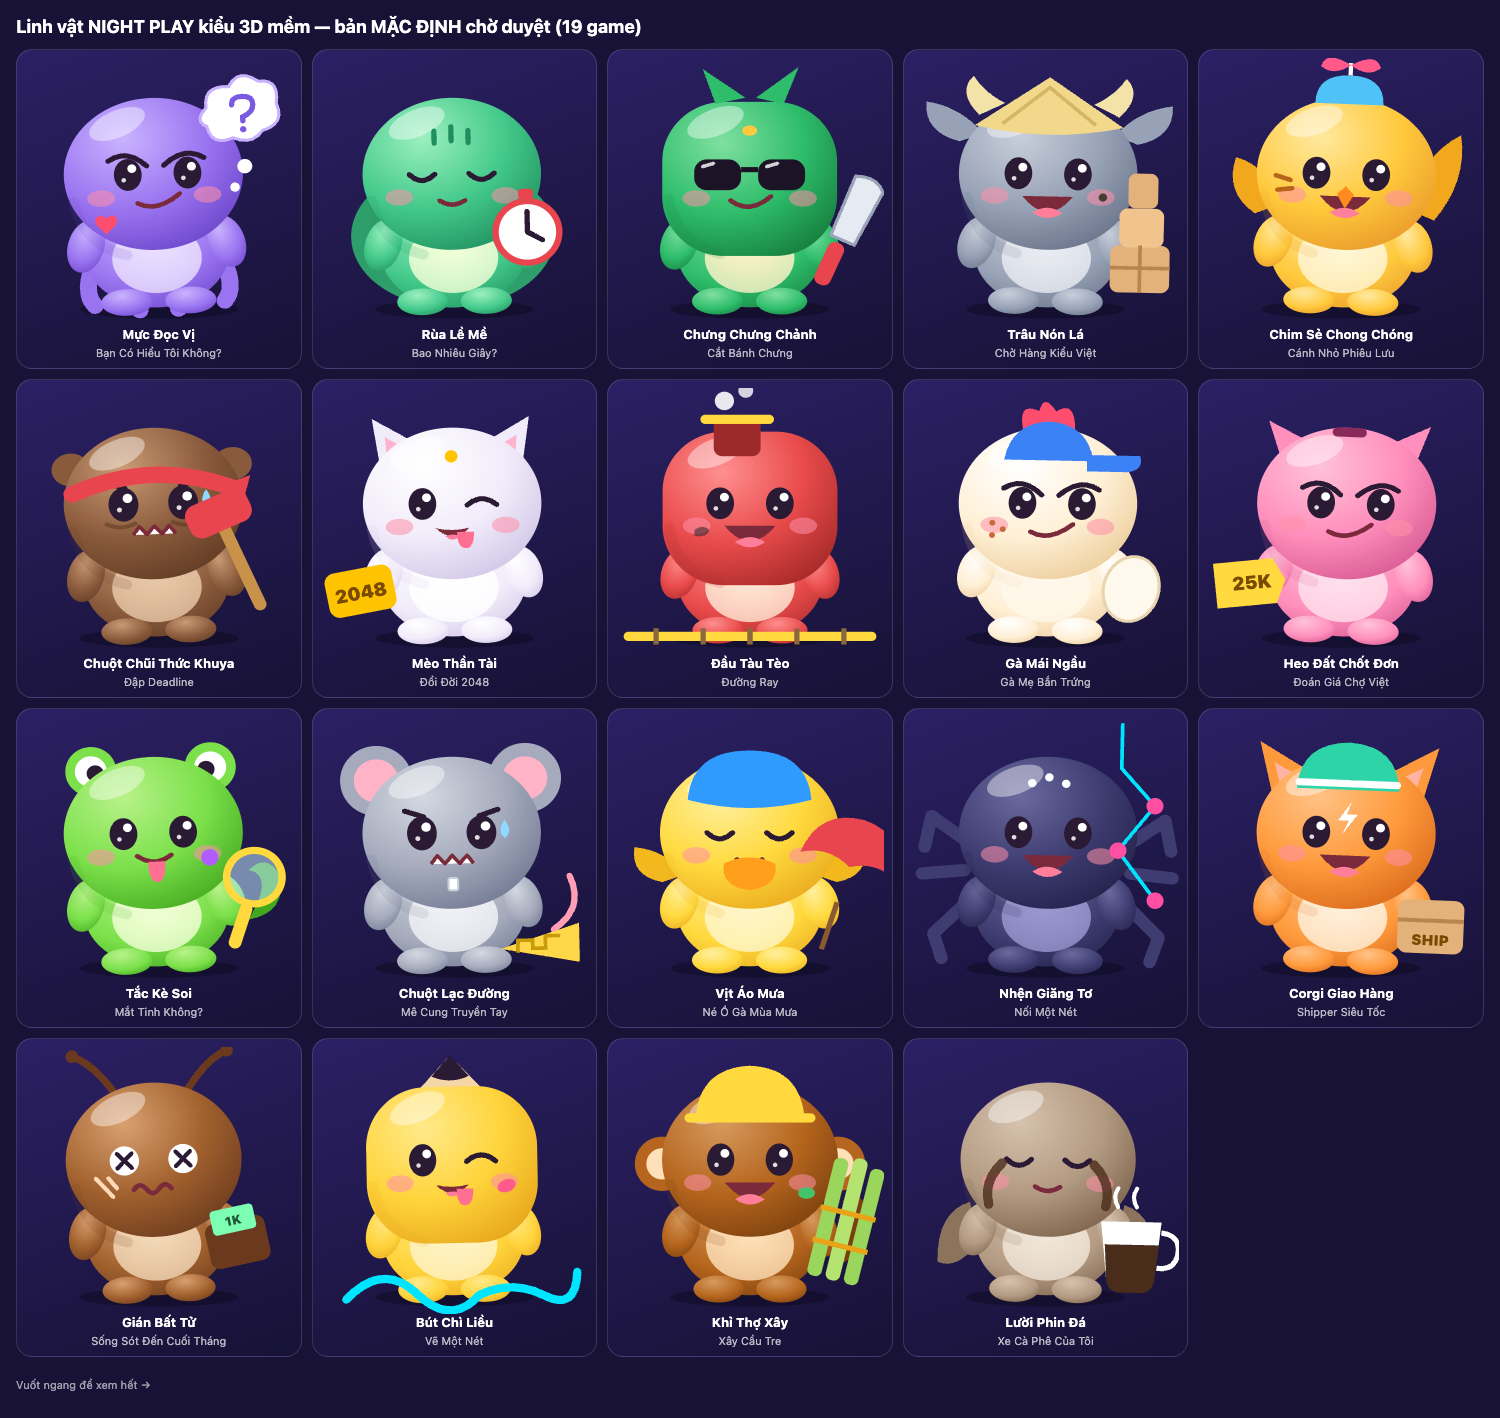
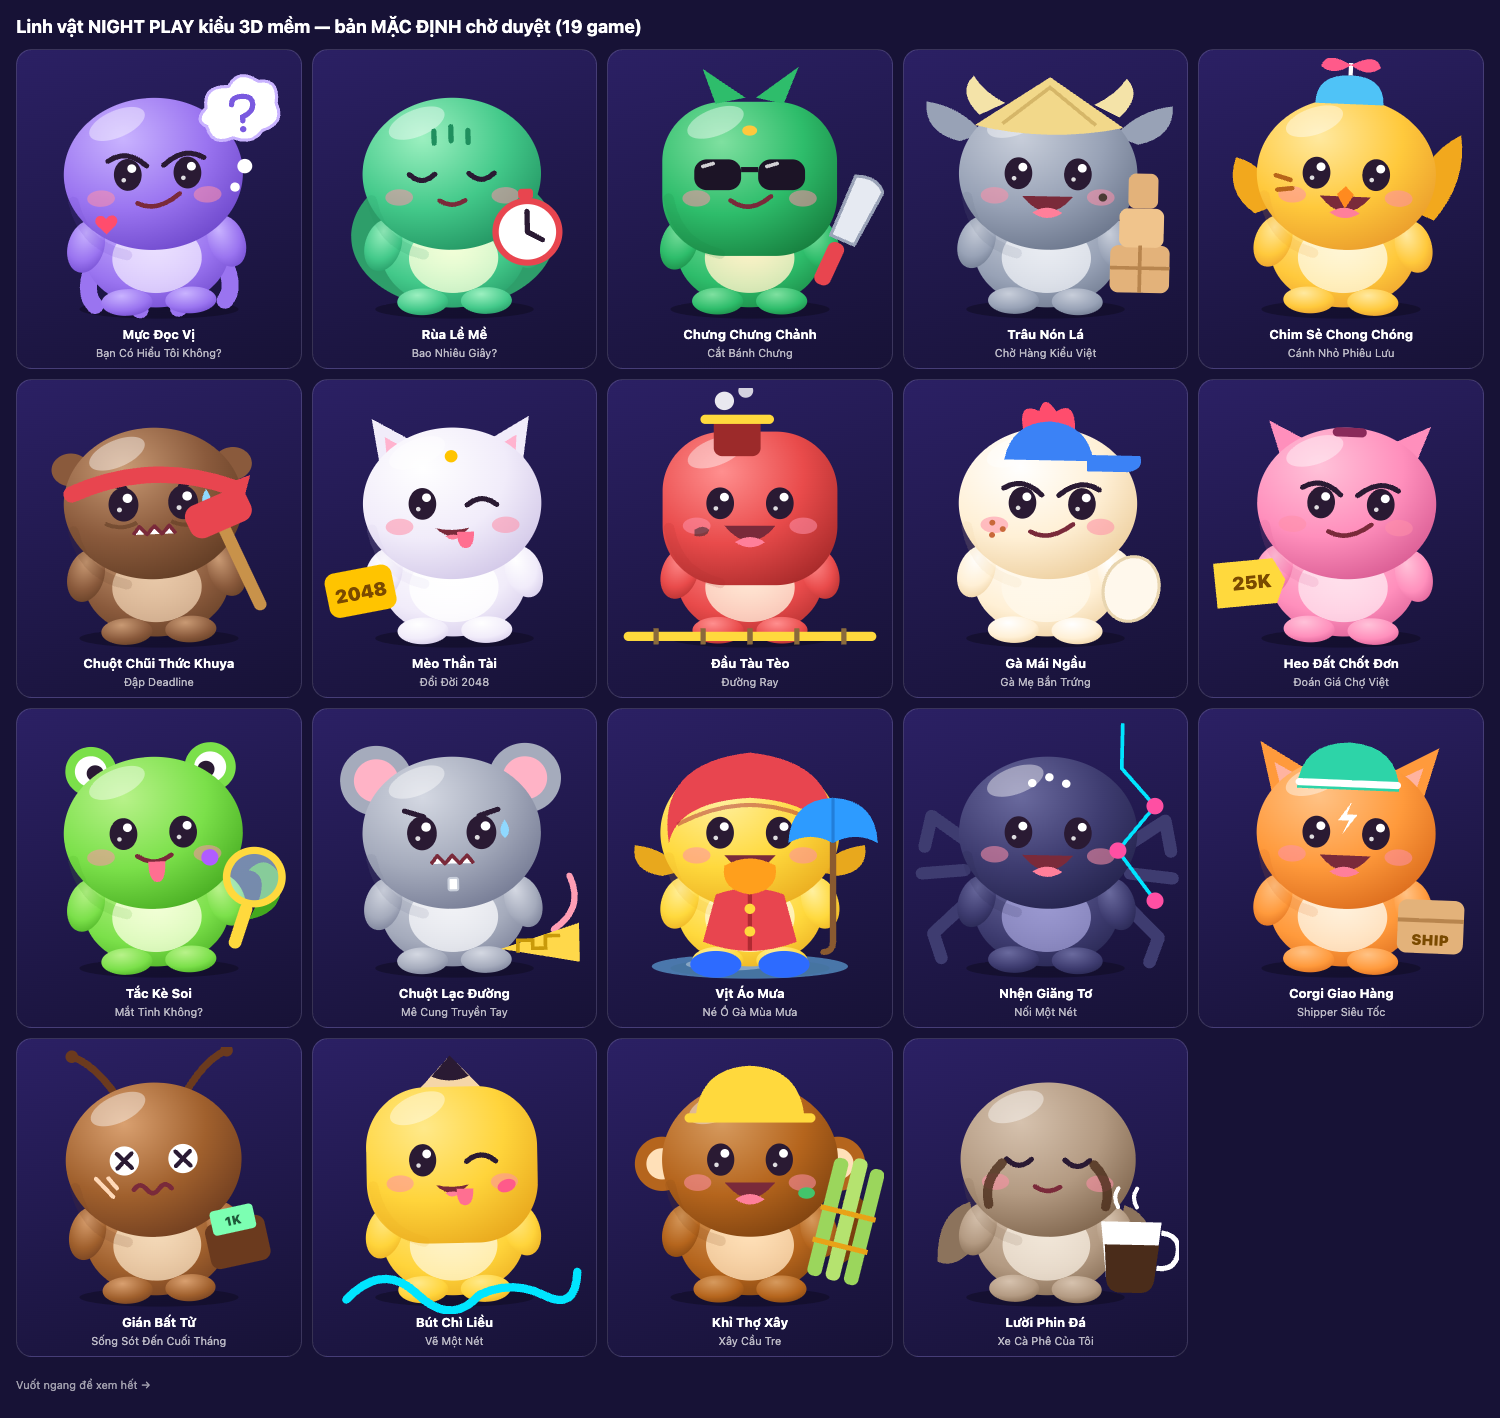
Night 3D: vẽ lại Vịt Áo Mưa (mũ trùm + áo mưa đỏ, ô xanh trọn khung, ủng, vũng nước)

Changed region(s): [[0.4293, 0.5275, 0.6133, 0.7137]]

diff --git a/scripts/art/gen-night3d.js b/scripts/art/gen-night3d.js
@@ -60,9 +60,12 @@ def("mat-tinh-khong", { name: "Mắt Tinh Không?", hero: "Tắc Kè Soi", mt: "
 def("me-cung-truyen-tay", { name: "Mê Cung Truyền Tay", hero: "Chuột Lạc Đường", mt: "răng cửa nhô ra", prop: "phô mai mê cung", c: ["#D4D8E2", "#A5ABBC", "#707690", "#F1F2F6"], face: "panic", head: 0,
   back: '<path d="M222 204Q252 184 238 152" fill="none" stroke="#FF9EB5" stroke-width="6" stroke-linecap="round"/>', ears: E(58, 56, 34, 34, '#A5ABBC') + E(58, 56, 21, 21, '#FFB3C6') + E(198, 56, 34, 34, '#A5ABBC') + E(198, 56, 21, 21, '#FFB3C6'), top: '', mark: '<rect id="mark" x="124" y="152" width="9" height="12" rx="2" fill="#fff" stroke="#C8CEDA" stroke-width="2"/>',
   sign: '<g id="sign"><path d="M172 222L246 198V236Z" fill="#FFD84A"/><path d="M188 226V214H202V222H214V210H228" fill="none" stroke="#C99A0A" stroke-width="3.5"/></g>' });
-def("ne-o-ga", { name: "Né Ổ Gà Mùa Mưa", hero: "Vịt Áo Mưa", mt: "giọt nước trên đầu", prop: "ô đỏ + áo mưa + ủng", c: ["#FFF0A0", "#FFD93D", "#E8A81D", "#FFF6C8"], face: "sleepy", head: 0,
-  back: '<path d="M46 156Q16 150 20 122Q54 126 64 150Z" fill="#F2B81D"/><path d="M210 156Q240 150 236 122Q202 126 192 150Z" fill="#F2B81D"/>', ears: '', top: '<path d="M70 76Q74 28 128 28Q182 28 186 76Q128 92 70 76Z" fill="#2F9BFF"/><path d="M104 138Q128 126 152 138Q156 160 128 164Q100 160 104 138Z" fill="#FF9F1C"/>', mark: '<path id="mark" d="M128 48q-9 12 0 18q9 -6 0 -18z" fill="#8FD8FF"/>',
-  sign: '<g id="sign" transform="rotate(18 212 170)"><path d="M212 176V224" stroke="#8A5A30" stroke-width="5"/><path d="M164 140Q168 94 212 92Q256 94 260 140Q236 126 212 140Q188 126 164 140Z" fill="#E8454F"/></g>' });
+def("ne-o-ga", { name: "Né Ổ Gà Mùa Mưa", hero: "Vịt Áo Mưa", mt: "giọt nước trên mỏ", prop: "ô xanh + áo mưa đỏ + ủng + vũng nước", c: ["#FFF0A0", "#FFD93D", "#E8A81D", "#FFF6C8"], face: "grin", head: 0,
+  back: '<ellipse cx="128" cy="238" rx="92" ry="12" fill="#6EC6FF" opacity=".55"/><ellipse cx="108" cy="236" rx="40" ry="6" fill="#fff" opacity=".35"/>',
+  ears: '<path d="M46 150Q16 146 20 120Q52 124 62 146Z" fill="#E8A81D"/><path d="M210 150Q240 146 236 120Q204 124 194 146Z" fill="#E8A81D"/>',
+  top: '<path d="M52 118Q40 40 128 30Q216 40 204 118Q196 78 128 74Q60 78 52 118Z" fill="#E8454F"/><path d="M60 100Q128 62 196 100" fill="none" stroke="#B02A32" stroke-width="4" opacity=".5"/><path d="M96 168Q128 156 160 168L172 214Q128 232 84 214Z" fill="#E8454F"/><path d="M128 160V222" stroke="#B02A32" stroke-width="4"/><circle cx="128" cy="182" r="5" fill="#FFD93D"/><circle cx="128" cy="204" r="5" fill="#FFD93D"/><path d="M104 140Q128 126 152 140Q156 164 128 168Q100 164 104 140Z" fill="#FF9F1C"/><ellipse cx="96" cy="236" rx="24" ry="13" fill="#2D6BFF"/><ellipse cx="160" cy="236" rx="24" ry="13" fill="#2D6BFF"/>',
+  mark: '<path id="mark" d="M128 150q-8 12 0 18q8 -6 0 -18z" fill="#8FD8FF"/>',
+  sign: '<g id="sign"><path d="M206 116V214" stroke="#8A5A30" stroke-width="6" stroke-linecap="round"/><path d="M206 214q0 10 -9 10" fill="none" stroke="#8A5A30" stroke-width="6" stroke-linecap="round"/><path d="M164 118Q166 76 206 74Q246 76 248 118Q227 106 206 118Q185 106 164 118Z" fill="#2D9BFF"/><path d="M206 74V118" stroke="#1B6BC0" stroke-width="3" opacity=".6"/></g>' });
 def("noi-mot-net", { name: "Nối Một Nét", hero: "Nhện Giăng Tơ", mt: "ba chấm trắng trên trán", prop: "sợi tơ nối chấm", c: ["#6A6A9E", "#3E3C70", "#22214A", "#9A98D0"], face: "grin", head: 0,
   back: '<path d="M52 118L18 94L12 124M50 146L10 150M54 176L22 208L30 232M204 118L238 94L244 124M206 146L246 150M202 176L234 208L226 232" fill="none" stroke="#3E3C70" stroke-width="12" stroke-linecap="round" stroke-linejoin="round"/>', ears: '', top: '', mark: '<g id="mark" fill="#fff"><circle cx="112" cy="60" r="4"/><circle cx="128" cy="54" r="4"/><circle cx="144" cy="60" r="4"/></g>',
   sign: '<g id="sign"><path d="M196 0V44L228 80L194 124L230 172" fill="none" stroke="#00E5FF" stroke-width="3.5"/><g fill="#FF4FA3"><circle cx="228" cy="80" r="8"/><circle cx="194" cy="124" r="8"/><circle cx="230" cy="172" r="8"/></g></g>' });
